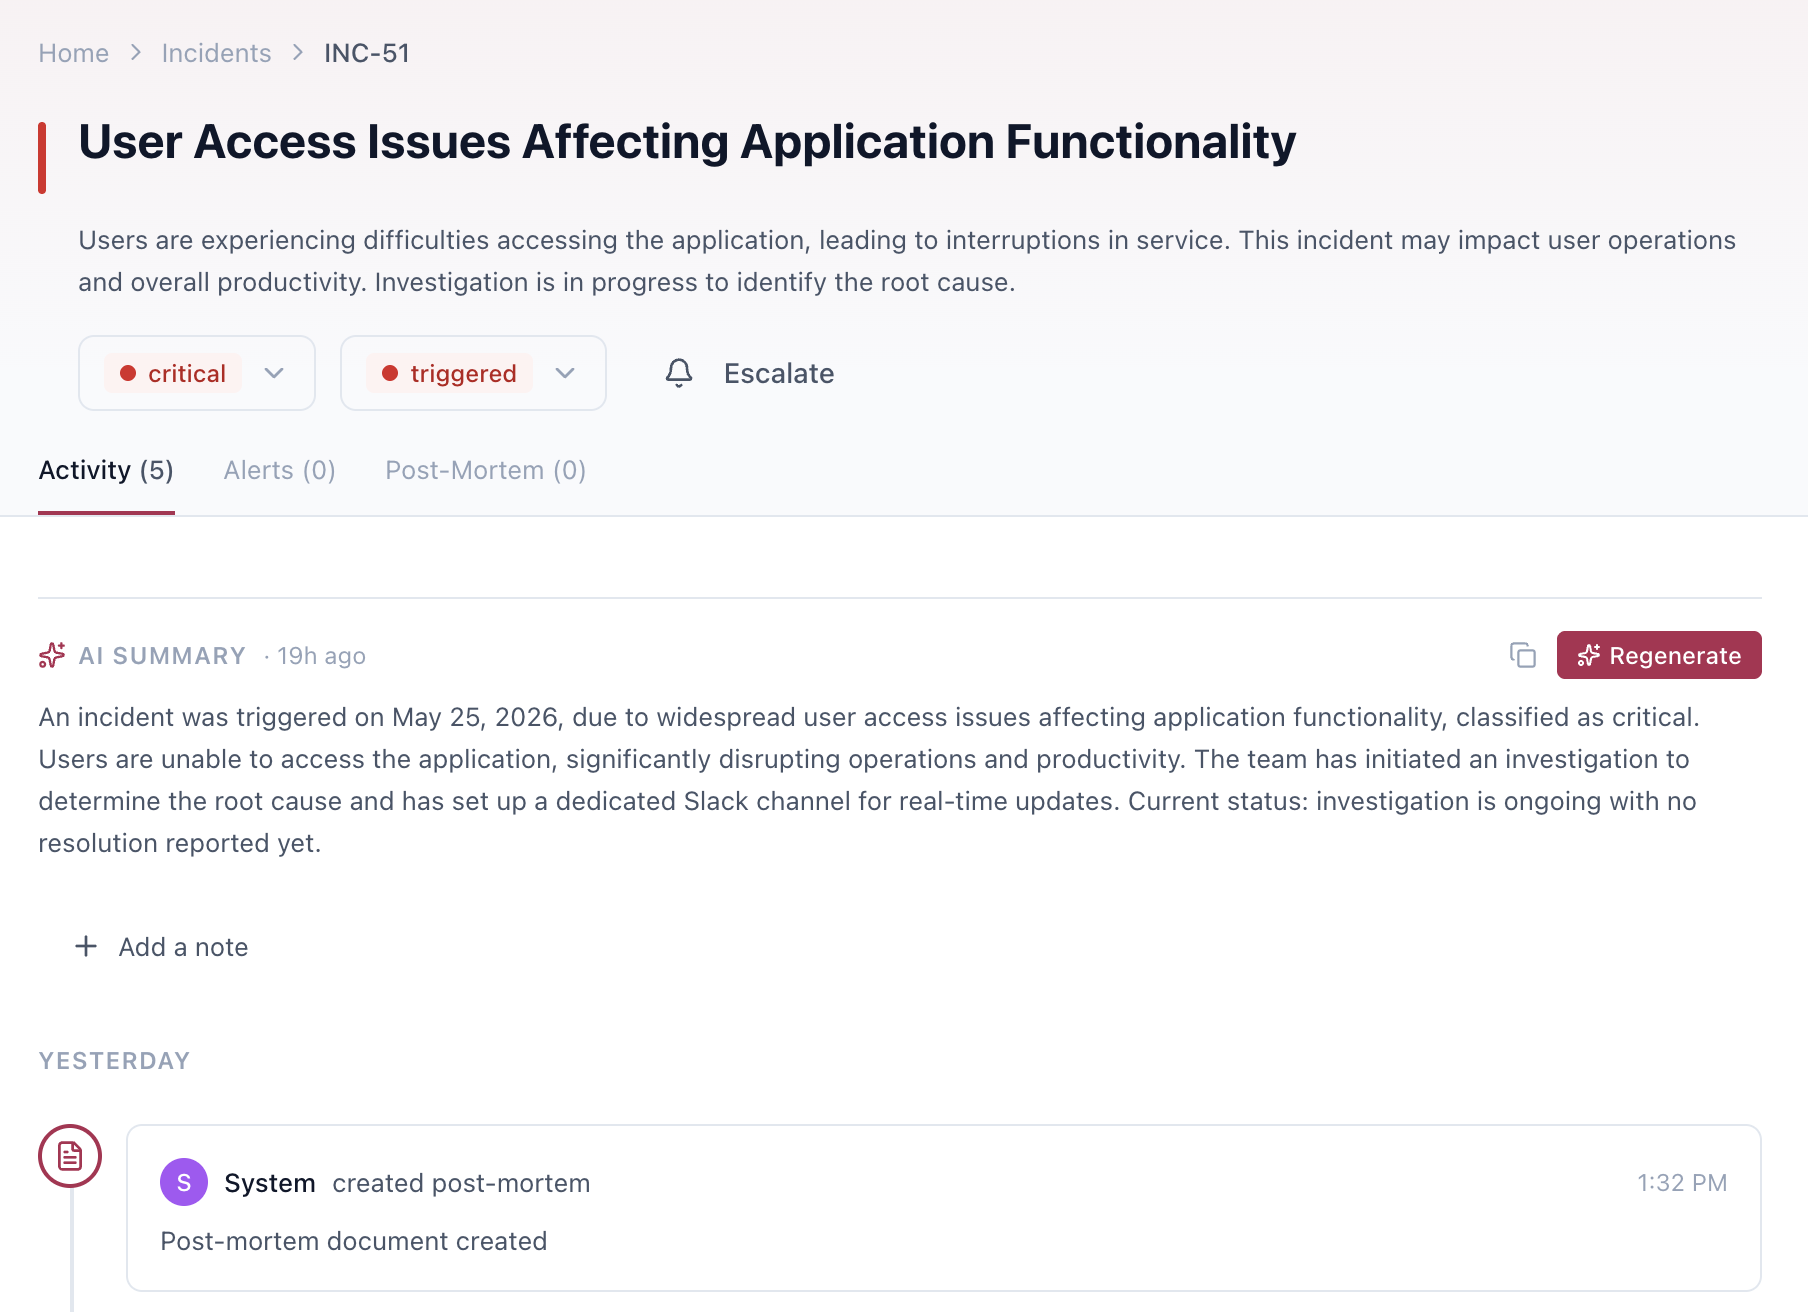
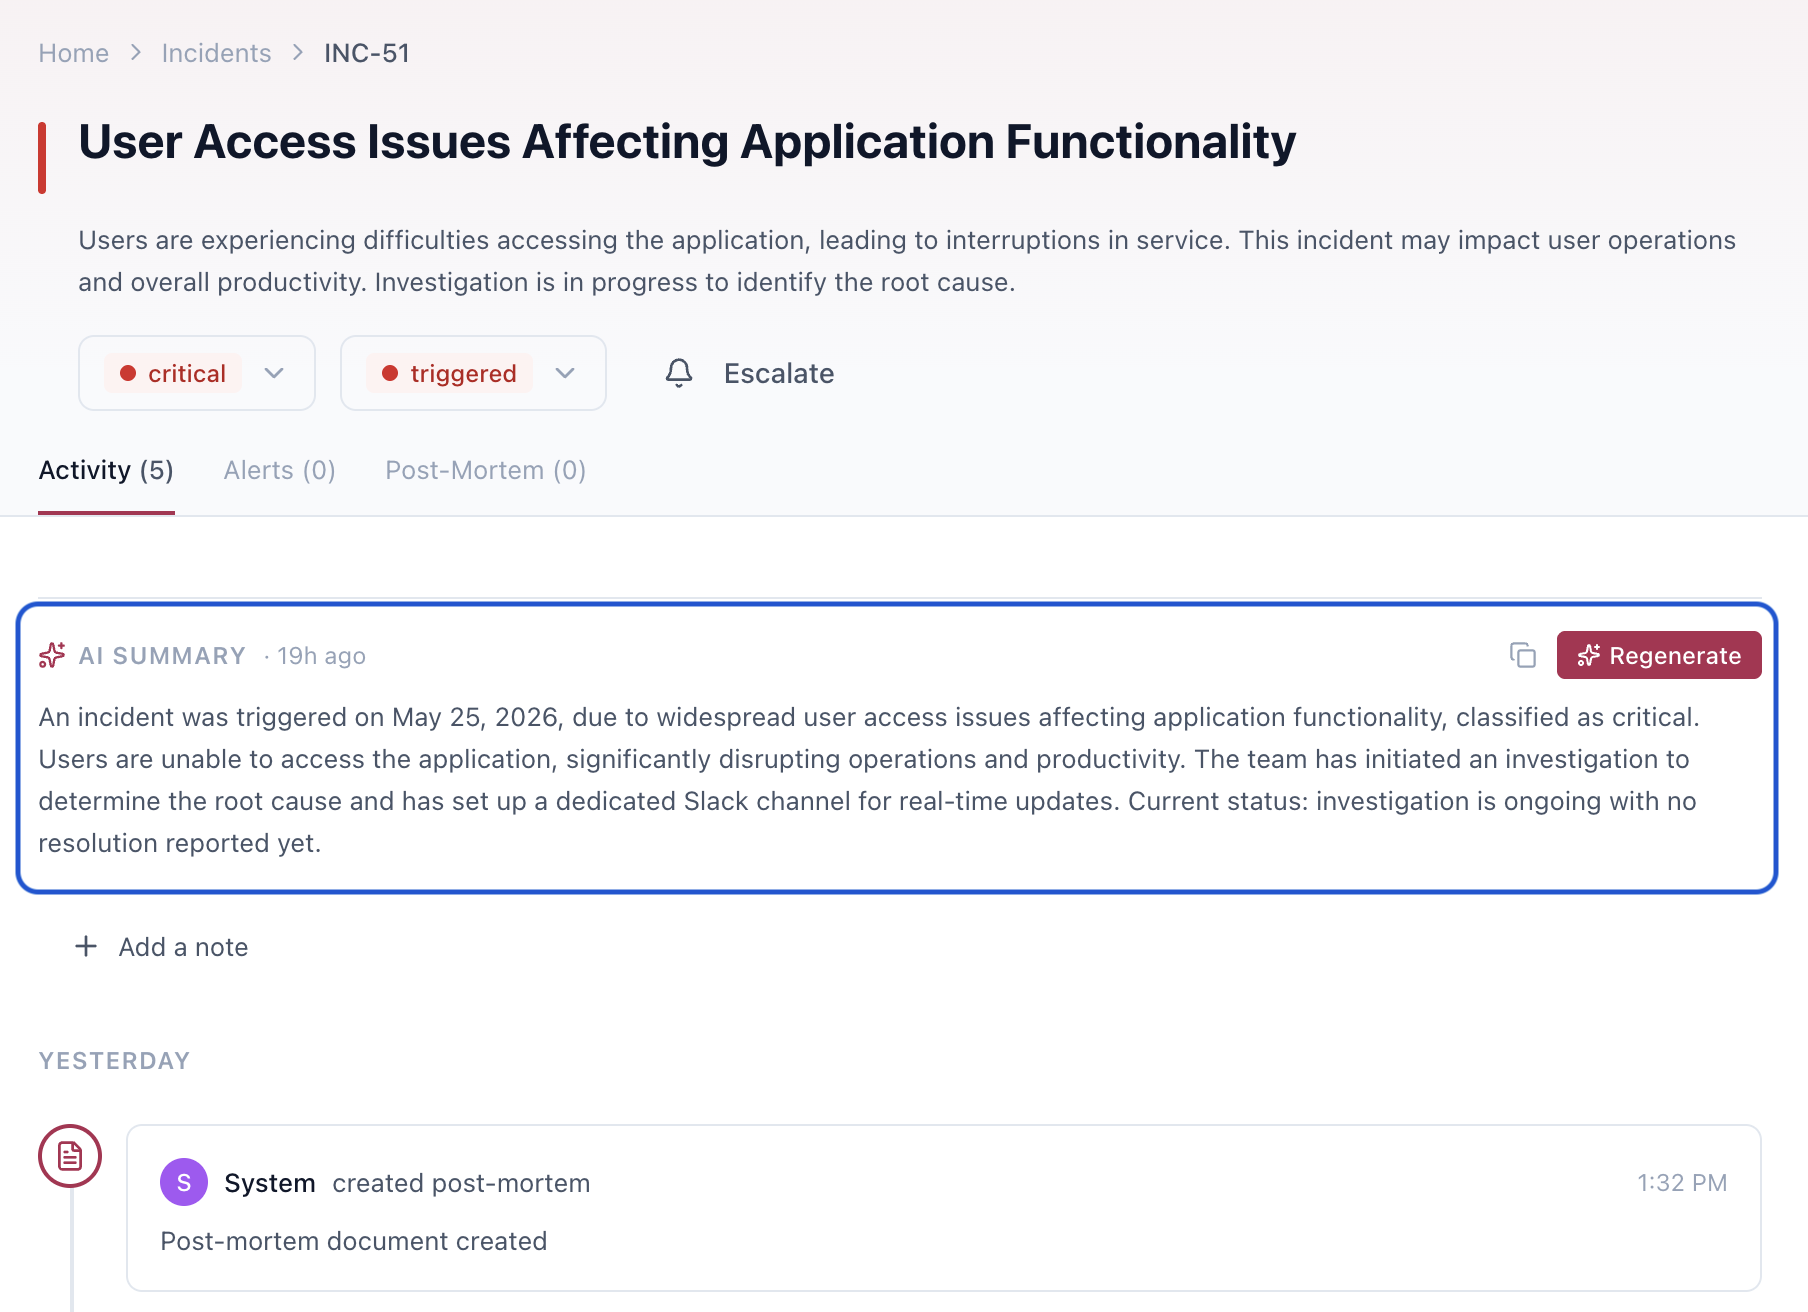
Added more screenshots to Repo

Changed region(s): [[0.0, 0.4375, 0.9912, 0.6875]]

diff --git a/README.md b/README.md
@@ -20,33 +20,67 @@
 
 ---
 
-> Unlimited alert noise reduction and incidents, unlimited on-call schedules, and unlimited AI postmortems and handoff digests.
-
-> The **one-stop alternative to PagerDuty + incident.io**, with **1-click import from Grafana OnCall/PagerDuty**.
-
----
-
-<p align="center">
-  <img src=".github/assets/demo.gif" alt="Fluidify Regen — incident kanban and Slack collaboration" width="960">
-</p>
-
+> Unlimited alert noise reduction and incidents, unlimited on-call schedules, and unlimited AI postmortems and handoff digests with 1-click Import from Grafana Oncall/Pagerduty
 ---
 
 ## Features
 
-- Incident lifecycle with immutable timeline
-- On-call rotations, layers, overrides
-- Escalation policies with multi-step timeouts
-- Alert ingestion — Prometheus, Grafana, CloudWatch, generic webhook
-- Slack integration — channels, bot commands, timeline sync
-- Microsoft Teams integration — Adaptive Cards, bot commands
-- 1-click migration from Grafana OnCall/PagerDuty
-- AI incident summaries + post-mortem drafts (BYO key — OpenAI/Anthropic/Ollama)
-- AI Postmortems, Handoffs, Summaries sych with Slack/Teams
-- SSO / SAML — Okta, Azure AD, Google Workspace — **free, always**
-- Docker Compose + Kubernetes Helm chart
-- PostgreSQL HA + Redis Sentinel support
-- No limits on incidents/AI features
+### - Incident lifecycle with immutable timeline
+<table>
+  <tr>
+    <td width="50%"><img src=".github/assets/incident-lifecycle.png" alt="Fluidify Regen — Immutable incident lifecycle for auditablity"></td>
+    <td width="50%"><img src=".github/assets/declare-incidents.png" alt="Fluidify Regen — Declare Incidents with AI Summaries"></td>
+  </tr>
+</table>
+
+### - On-call rotations, layers, overrides
+<table>
+  <tr>
+    <td width="50%"><img src=".github/assets/oncall-schedule1.png" alt="Fluidify Regen — helps you make oncall schedules with overlaps and availability markers"></td>
+    <td width="50%"><img src=".github/assets/oncall-schedule2.png" alt="Fluidify Regen — helps your include holidays and leaves in oncall schedules"></td>
+  </tr>
+</table>
+
+### - Escalation policies with multi-step timeouts
+<table>
+  <tr>
+    <td width="50%"><img src=".github/assets/escalation-path1.png" alt="Fluidify Regen — Define Esacalation policies for incidents"></td>
+    <td width="50%"><img src=".github/assets/escalation-path2.png" alt="Fluidify Regen — Define Esacalation policies for incidents"></td>
+  </tr>
+</table>
+
+### - Alert ingestion — Prometheus, Grafana, CloudWatch, generic webhook
+<p align="center">
+  <img src=".github/assets/integrations.png" alt="Fluidify Regen integrates with your Prometheur, Grafan, Cloudwatch and other so many tools" width="960">
+</p>
+
+### - Slack integration — channels, bot commands, timeline sync
+### - Microsoft Teams integration — Adaptive Cards, bot commands
+### - 1-click migration from Grafana OnCall/PagerDuty
+<p align="center">
+  <img src=".github/assets/1click-import.png" alt="Fluidify Regen lets you import your schedules and configurations from Grafana, Pagerduty and Opsgenie in 1 click" width="960">
+</p>
+
+
+### - AI incident summaries, Post-mortem, Handoffs Summaries with Slack/Teams synch (BYO key — OpenAI/Anthropic/Ollama)
+<table>
+  <tr>
+    <td width="50%"><img src=".github/assets/ai-summary-ss.png" alt="Fluidify Regen — AI assisted summaries"></td>
+    <td width="50%"><img src=".github/assets/pm-ss.png" alt="Fluidify Regen — Editable AI Postmortems"></td>
+  </tr>
+  <tr>
+    <td width="50%"><img src=".github/assets/pattern-matching-ss.png" alt="Fluidify Regen — Pattern matching and learning with historical incidents"></td>
+  </tr>
+</table>
+
+### - SSO / SAML — Okta, Azure AD, Google Workspace
+<p align="center">
+  <img src=".github/assets/sso.png" alt="Fluidify Regen allows you to sign in with SSO/SAML from Okta, Azure AD, Google Workspace, Slack" width="960">
+</p>
+
+### - Docker Compose + Kubernetes Helm chart
+### - PostgreSQL HA + Redis Sentinel support
+### - No limits on incidents/AI features
 
 ---
 
@@ -60,34 +94,6 @@
 | **Auth** | SAML 2.0 — Okta · Azure AD · Google Workspace · any compliant IdP |
 | **Migration** | Grafana OnCall · PagerDuty |
 | **Deploy** | Docker Compose · Kubernetes Helm · bare metal |
-
----
-
-## Highlights of AI Capabilities
-
-### Incident Summarization
-
-<p align="center">
-  <img src=".github/assets/ai-summary-ss.png" alt="Fluidify Regen — Create AI assisted summaries for efficient context transfer across engineers" width="960">
-</p>
-
-### Historical Pattern Matching
-
-<p align="center">
-  <img src=".github/assets/pattern-matching-ss.png" alt="Fluidify Regen — Pattern matching and learning with historical incidents" width="960">
-</p>
-
-### Post-Mortem Agent
-
-<p align="center">
-  <img src=".github/assets/pm-ss.png" alt="Fluidify Regen — Editable AI Postmortems for Incidents" width="960">
-</p>
-
-### Handoff Digest
-
-<p align="center">
-  <img src=".github/assets/handoff-ss.png" alt="Fluidify Regen — Create AI Assisted Handoff Digests for Incident handovers, briefings, status changes, pending actions, sycnhed with Slack/Teams" width="960">
-</p>
 
 ---
 